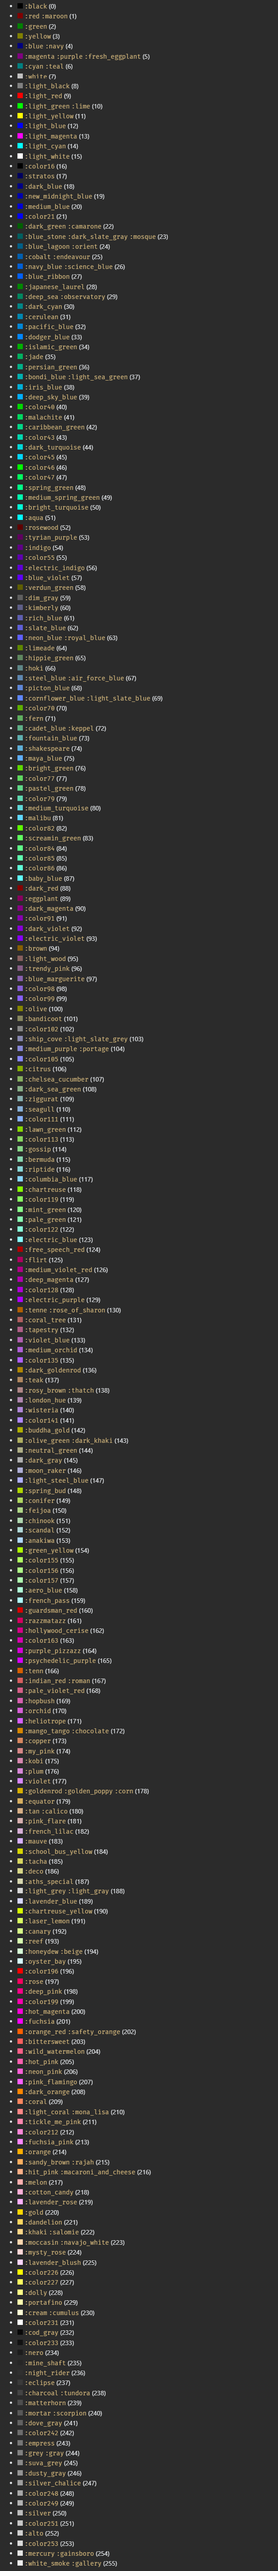
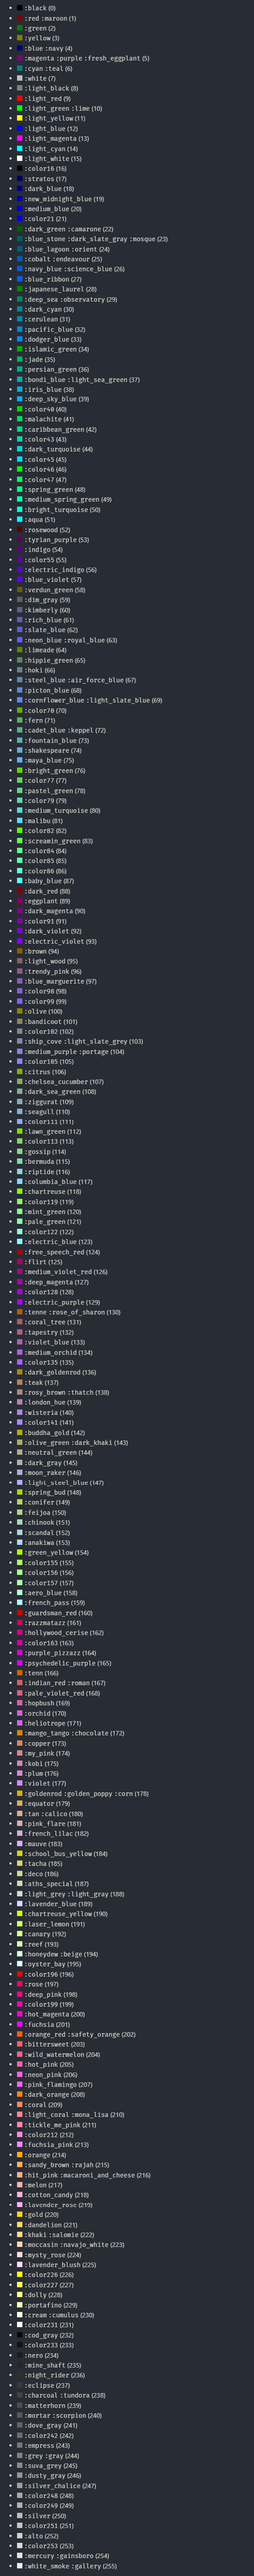
0.1.54

Changed region(s): [[0.03, 0.0, 0.4497, 0.9986]]

diff --git a/README'.md b/README'.md
@@ -1,0 +1,259 @@
+cursor here
+
+
+- ![!](/images/000000.png) `:black` (0)
+- ![!](/images/800000.png) `:red` `:maroon` (1)
+- ![!](/images/008000.png) `:green` (2)
+- ![!](/images/808000.png) `:yellow` (3)
+- ![!](/images/000080.png) `:blue` `:navy` (4)
+- ![!](/images/800080.png) `:magenta` `:purple` `:fresh_eggplant` (5)
+- ![!](/images/008080.png) `:cyan` `:teal` (6)
+- ![!](/images/c0c0c0.png) `:white` (7)
+- ![!](/images/808080.png) `:light_black` (8)
+- ![!](/images/ff0000.png) `:light_red` (9)
+- ![!](/images/00ff00.png) `:light_green` `:lime` (10)
+- ![!](/images/ffff00.png) `:light_yellow` (11)
+- ![!](/images/0000ff.png) `:light_blue` (12)
+- ![!](/images/ff00ff.png) `:light_magenta` (13)
+- ![!](/images/00ffff.png) `:light_cyan` (14)
+- ![!](/images/ffffff.png) `:light_white` (15)
+- ![!](/images/000000.png) `:color16` (16)
+- ![!](/images/00005f.png) `:stratos` (17)
+- ![!](/images/000087.png) `:dark_blue` (18)
+- ![!](/images/0000af.png) `:new_midnight_blue` (19)
+- ![!](/images/0000d7.png) `:medium_blue` (20)
+- ![!](/images/0000ff.png) `:color21` (21)
+- ![!](/images/005f00.png) `:dark_green` `:camarone` (22)
+- ![!](/images/005f5f.png) `:blue_stone` `:dark_slate_gray` `:mosque` (23)
+- ![!](/images/005f87.png) `:blue_lagoon` `:orient` (24)
+- ![!](/images/005faf.png) `:cobalt` `:endeavour` (25)
+- ![!](/images/005fd7.png) `:navy_blue` `:science_blue` (26)
+- ![!](/images/005fff.png) `:blue_ribbon` (27)
+- ![!](/images/008700.png) `:japanese_laurel` (28)
+- ![!](/images/00875f.png) `:deep_sea` `:observatory` (29)
+- ![!](/images/008787.png) `:dark_cyan` (30)
+- ![!](/images/0087af.png) `:cerulean` (31)
+- ![!](/images/0087d7.png) `:pacific_blue` (32)
+- ![!](/images/0087ff.png) `:dodger_blue` (33)
+- ![!](/images/00af00.png) `:islamic_green` (34)
+- ![!](/images/00af5f.png) `:jade` (35)
+- ![!](/images/00af87.png) `:persian_green` (36)
+- ![!](/images/00afaf.png) `:bondi_blue` `:light_sea_green` (37)
+- ![!](/images/00afd7.png) `:iris_blue` (38)
+- ![!](/images/00afff.png) `:deep_sky_blue` (39)
+- ![!](/images/00d700.png) `:color40` (40)
+- ![!](/images/00d75f.png) `:malachite` (41)
+- ![!](/images/00d787.png) `:caribbean_green` (42)
+- ![!](/images/00d7af.png) `:color43` (43)
+- ![!](/images/00d7d7.png) `:dark_turquoise` (44)
+- ![!](/images/00d7ff.png) `:color45` (45)
+- ![!](/images/00ff00.png) `:color46` (46)
+- ![!](/images/00ff5f.png) `:color47` (47)
+- ![!](/images/00ff87.png) `:spring_green` (48)
+- ![!](/images/00ffaf.png) `:medium_spring_green` (49)
+- ![!](/images/00ffd7.png) `:bright_turquoise` (50)
+- ![!](/images/00ffff.png) `:aqua` (51)
+- ![!](/images/5f0000.png) `:rosewood` (52)
+- ![!](/images/5f005f.png) `:tyrian_purple` (53)
+- ![!](/images/5f0087.png) `:indigo` (54)
+- ![!](/images/5f00af.png) `:color55` (55)
+- ![!](/images/5f00d7.png) `:electric_indigo` (56)
+- ![!](/images/5f00ff.png) `:blue_violet` (57)
+- ![!](/images/5f5f00.png) `:verdun_green` (58)
+- ![!](/images/5f5f5f.png) `:dim_gray` (59)
+- ![!](/images/5f5f87.png) `:kimberly` (60)
+- ![!](/images/5f5faf.png) `:rich_blue` (61)
+- ![!](/images/5f5fd7.png) `:slate_blue` (62)
+- ![!](/images/5f5fff.png) `:neon_blue` `:royal_blue` (63)
+- ![!](/images/5f8700.png) `:limeade` (64)
+- ![!](/images/5f875f.png) `:hippie_green` (65)
+- ![!](/images/5f8787.png) `:hoki` (66)
+- ![!](/images/5f87af.png) `:steel_blue` `:air_force_blue` (67)
+- ![!](/images/5f87d7.png) `:picton_blue` (68)
+- ![!](/images/5f87ff.png) `:cornflower_blue` `:light_slate_blue` (69)
+- ![!](/images/5faf00.png) `:color70` (70)
+- ![!](/images/5faf5f.png) `:fern` (71)
+- ![!](/images/5faf87.png) `:cadet_blue` `:keppel` (72)
+- ![!](/images/5fafaf.png) `:fountain_blue` (73)
+- ![!](/images/5fafd7.png) `:shakespeare` (74)
+- ![!](/images/5fafff.png) `:maya_blue` (75)
+- ![!](/images/5fd700.png) `:bright_green` (76)
+- ![!](/images/5fd75f.png) `:color77` (77)
+- ![!](/images/5fd787.png) `:pastel_green` (78)
+- ![!](/images/5fd7af.png) `:color79` (79)
+- ![!](/images/5fd7d7.png) `:medium_turquoise` (80)
+- ![!](/images/5fd7ff.png) `:malibu` (81)
+- ![!](/images/5fff00.png) `:color82` (82)
+- ![!](/images/5fff5f.png) `:screamin_green` (83)
+- ![!](/images/5fff87.png) `:color84` (84)
+- ![!](/images/5fffaf.png) `:color85` (85)
+- ![!](/images/5fffd7.png) `:color86` (86)
+- ![!](/images/5fffff.png) `:baby_blue` (87)
+- ![!](/images/870000.png) `:dark_red` (88)
+- ![!](/images/87005f.png) `:eggplant` (89)
+- ![!](/images/870087.png) `:dark_magenta` (90)
+- ![!](/images/8700af.png) `:color91` (91)
+- ![!](/images/8700d7.png) `:dark_violet` (92)
+- ![!](/images/8700ff.png) `:electric_violet` (93)
+- ![!](/images/875f00.png) `:brown` (94)
+- ![!](/images/875f5f.png) `:light_wood` (95)
+- ![!](/images/875f87.png) `:trendy_pink` (96)
+- ![!](/images/875faf.png) `:blue_marguerite` (97)
+- ![!](/images/875fd7.png) `:color98` (98)
+- ![!](/images/875fff.png) `:color99` (99)
+- ![!](/images/878700.png) `:olive` (100)
+- ![!](/images/87875f.png) `:bandicoot` (101)
+- ![!](/images/878787.png) `:color102` (102)
+- ![!](/images/8787af.png) `:ship_cove` `:light_slate_grey` (103)
+- ![!](/images/8787d7.png) `:medium_purple` `:portage` (104)
+- ![!](/images/8787ff.png) `:color105` (105)
+- ![!](/images/87af00.png) `:citrus` (106)
+- ![!](/images/87af5f.png) `:chelsea_cucumber` (107)
+- ![!](/images/87af87.png) `:dark_sea_green` (108)
+- ![!](/images/87afaf.png) `:ziggurat` (109)
+- ![!](/images/87afd7.png) `:seagull` (110)
+- ![!](/images/87afff.png) `:color111` (111)
+- ![!](/images/87d700.png) `:lawn_green` (112)
+- ![!](/images/87d75f.png) `:color113` (113)
+- ![!](/images/87d787.png) `:gossip` (114)
+- ![!](/images/87d7af.png) `:bermuda` (115)
+- ![!](/images/87d7d7.png) `:riptide` (116)
+- ![!](/images/87d7ff.png) `:columbia_blue` (117)
+- ![!](/images/87ff00.png) `:chartreuse` (118)
+- ![!](/images/87ff5f.png) `:color119` (119)
+- ![!](/images/87ff87.png) `:mint_green` (120)
+- ![!](/images/87ffaf.png) `:pale_green` (121)
+- ![!](/images/87ffd7.png) `:color122` (122)
+- ![!](/images/87ffff.png) `:electric_blue` (123)
+- ![!](/images/af0000.png) `:free_speech_red` (124)
+- ![!](/images/af005f.png) `:flirt` (125)
+- ![!](/images/af0087.png) `:medium_violet_red` (126)
+- ![!](/images/af00af.png) `:deep_magenta` (127)
+- ![!](/images/af00d7.png) `:color128` (128)
+- ![!](/images/af00ff.png) `:electric_purple` (129)
+- ![!](/images/af5f00.png) `:tenne` `:rose_of_sharon` (130)
+- ![!](/images/af5f5f.png) `:coral_tree` (131)
+- ![!](/images/af5f87.png) `:tapestry` (132)
+- ![!](/images/af5faf.png) `:violet_blue` (133)
+- ![!](/images/af5fd7.png) `:medium_orchid` (134)
+- ![!](/images/af5fff.png) `:color135` (135)
+- ![!](/images/af8700.png) `:dark_goldenrod` (136)
+- ![!](/images/af875f.png) `:teak` (137)
+- ![!](/images/af8787.png) `:rosy_brown` `:thatch` (138)
+- ![!](/images/af87af.png) `:london_hue` (139)
+- ![!](/images/af87d7.png) `:wisteria` (140)
+- ![!](/images/af87ff.png) `:color141` (141)
+- ![!](/images/afaf00.png) `:buddha_gold` (142)
+- ![!](/images/afaf5f.png) `:olive_green` `:dark_khaki` (143)
+- ![!](/images/afaf87.png) `:neutral_green` (144)
+- ![!](/images/afafaf.png) `:dark_gray` (145)
+- ![!](/images/afafd7.png) `:moon_raker` (146)
+- ![!](/images/afafff.png) `:light_steel_blue` (147)
+- ![!](/images/afd700.png) `:spring_bud` (148)
+- ![!](/images/afd75f.png) `:conifer` (149)
+- ![!](/images/afd787.png) `:feijoa` (150)
+- ![!](/images/afd7af.png) `:chinook` (151)
+- ![!](/images/afd7d7.png) `:scandal` (152)
+- ![!](/images/afd7ff.png) `:anakiwa` (153)
+- ![!](/images/afff00.png) `:green_yellow` (154)
+- ![!](/images/afff5f.png) `:color155` (155)
+- ![!](/images/afff87.png) `:color156` (156)
+- ![!](/images/afffaf.png) `:color157` (157)
+- ![!](/images/afffd7.png) `:aero_blue` (158)
+- ![!](/images/afffff.png) `:french_pass` (159)
+- ![!](/images/d70000.png) `:guardsman_red` (160)
+- ![!](/images/d7005f.png) `:razzmatazz` (161)
+- ![!](/images/d70087.png) `:hollywood_cerise` (162)
+- ![!](/images/d700af.png) `:color163` (163)
+- ![!](/images/d700d7.png) `:purple_pizzazz` (164)
+- ![!](/images/d700ff.png) `:psychedelic_purple` (165)
+- ![!](/images/d75f00.png) `:tenn` (166)
+- ![!](/images/d75f5f.png) `:indian_red` `:roman` (167)
+- ![!](/images/d75f87.png) `:pale_violet_red` (168)
+- ![!](/images/d75faf.png) `:hopbush` (169)
+- ![!](/images/d75fd7.png) `:orchid` (170)
+- ![!](/images/d75fff.png) `:heliotrope` (171)
+- ![!](/images/d78700.png) `:mango_tango` `:chocolate` (172)
+- ![!](/images/d7875f.png) `:copper` (173)
+- ![!](/images/d78787.png) `:my_pink` (174)
+- ![!](/images/d787af.png) `:kobi` (175)
+- ![!](/images/d787d7.png) `:plum` (176)
+- ![!](/images/d787ff.png) `:violet` (177)
+- ![!](/images/d7af00.png) `:goldenrod` `:golden_poppy` `:corn` (178)
+- ![!](/images/d7af5f.png) `:equator` (179)
+- ![!](/images/d7af87.png) `:tan` `:calico` (180)
+- ![!](/images/d7afaf.png) `:pink_flare` (181)
+- ![!](/images/d7afd7.png) `:french_lilac` (182)
+- ![!](/images/d7afff.png) `:mauve` (183)
+- ![!](/images/d7d700.png) `:school_bus_yellow` (184)
+- ![!](/images/d7d75f.png) `:tacha` (185)
+- ![!](/images/d7d787.png) `:deco` (186)
+- ![!](/images/d7d7af.png) `:aths_special` (187)
+- ![!](/images/d7d7d7.png) `:light_grey` `:light_gray` (188)
+- ![!](/images/d7d7ff.png) `:lavender_blue` (189)
+- ![!](/images/d7ff00.png) `:chartreuse_yellow` (190)
+- ![!](/images/d7ff5f.png) `:laser_lemon` (191)
+- ![!](/images/d7ff87.png) `:canary` (192)
+- ![!](/images/d7ffaf.png) `:reef` (193)
+- ![!](/images/d7ffd7.png) `:honeydew` `:beige` (194)
+- ![!](/images/d7ffff.png) `:oyster_bay` (195)
+- ![!](/images/ff0000.png) `:color196` (196)
+- ![!](/images/ff005f.png) `:rose` (197)
+- ![!](/images/ff0087.png) `:deep_pink` (198)
+- ![!](/images/ff00af.png) `:color199` (199)
+- ![!](/images/ff00d7.png) `:hot_magenta` (200)
+- ![!](/images/ff00ff.png) `:fuchsia` (201)
+- ![!](/images/ff5f00.png) `:orange_red` `:safety_orange` (202)
+- ![!](/images/ff5f5f.png) `:bittersweet` (203)
+- ![!](/images/ff5f87.png) `:wild_watermelon` (204)
+- ![!](/images/ff5faf.png) `:hot_pink` (205)
+- ![!](/images/ff5fd7.png) `:neon_pink` (206)
+- ![!](/images/ff5fff.png) `:pink_flamingo` (207)
+- ![!](/images/ff8700.png) `:dark_orange` (208)
+- ![!](/images/ff875f.png) `:coral` (209)
+- ![!](/images/ff8787.png) `:light_coral` `:mona_lisa` (210)
+- ![!](/images/ff87af.png) `:tickle_me_pink` (211)
+- ![!](/images/ff87d7.png) `:color212` (212)
+- ![!](/images/ff87ff.png) `:fuchsia_pink` (213)
+- ![!](/images/ffaf00.png) `:orange` (214)
+- ![!](/images/ffaf5f.png) `:sandy_brown` `:rajah` (215)
+- ![!](/images/ffaf87.png) `:hit_pink` `:macaroni_and_cheese` (216)
+- ![!](/images/ffafaf.png) `:melon` (217)
+- ![!](/images/ffafd7.png) `:cotton_candy` (218)
+- ![!](/images/ffafff.png) `:lavender_rose` (219)
+- ![!](/images/ffd700.png) `:gold` (220)
+- ![!](/images/ffd75f.png) `:dandelion` (221)
+- ![!](/images/ffd787.png) `:khaki` `:salomie` (222)
+- ![!](/images/ffd7af.png) `:moccasin` `:navajo_white` (223)
+- ![!](/images/ffd7d7.png) `:mysty_rose` (224)
+- ![!](/images/ffd7ff.png) `:lavender_blush` (225)
+- ![!](/images/ffff00.png) `:color226` (226)
+- ![!](/images/ffff5f.png) `:color227` (227)
+- ![!](/images/ffff87.png) `:dolly` (228)
+- ![!](/images/ffffaf.png) `:portafino` (229)
+- ![!](/images/ffffd7.png) `:cream` `:cumulus` (230)
+- ![!](/images/ffffff.png) `:color231` (231)
+- ![!](/images/080808.png) `:cod_gray` (232)
+- ![!](/images/121212.png) `:color233` (233)
+- ![!](/images/1c1c1c.png) `:nero` (234)
+- ![!](/images/262626.png) `:mine_shaft` (235)
+- ![!](/images/303030.png) `:night_rider` (236)
+- ![!](/images/3a3a3a.png) `:eclipse` (237)
+- ![!](/images/444444.png) `:charcoal` `:tundora` (238)
+- ![!](/images/4e4e4e.png) `:matterhorn` (239)
+- ![!](/images/585858.png) `:mortar` `:scorpion` (240)
+- ![!](/images/626262.png) `:dove_gray` (241)
+- ![!](/images/6c6c6c.png) `:color242` (242)
+- ![!](/images/767676.png) `:empress` (243)
+- ![!](/images/808080.png) `:grey` `:gray` (244)
+- ![!](/images/8a8a8a.png) `:suva_grey` (245)
+- ![!](/images/949494.png) `:dusty_gray` (246)
+- ![!](/images/9e9e9e.png) `:silver_chalice` (247)
+- ![!](/images/a8a8a8.png) `:color248` (248)
+- ![!](/images/b2b2b2.png) `:color249` (249)
+- ![!](/images/bcbcbc.png) `:silver` (250)
+- ![!](/images/c6c6c6.png) `:color251` (251)
+- ![!](/images/d0d0d0.png) `:alto` (252)
+- ![!](/images/dadada.png) `:color253` (253)
+- ![!](/images/e4e4e4.png) `:mercury` `:gainsboro` (254)
+- ![!](/images/eeeeee.png) `:white_smoke` `:gallery` (255)
